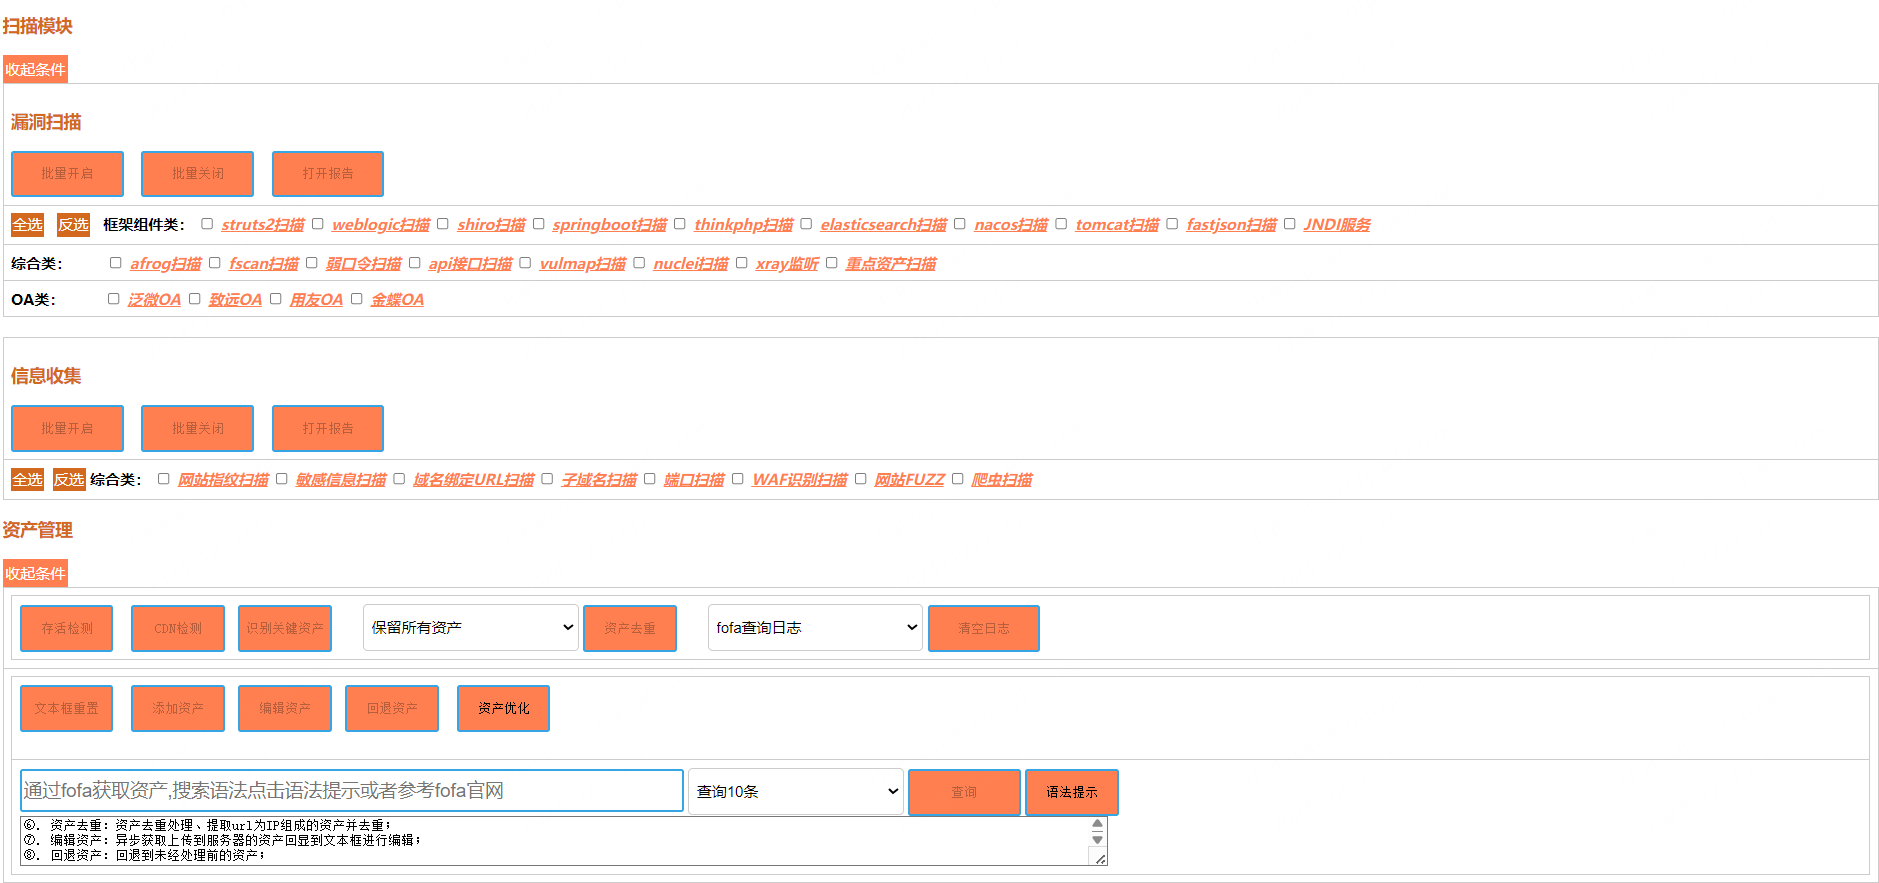
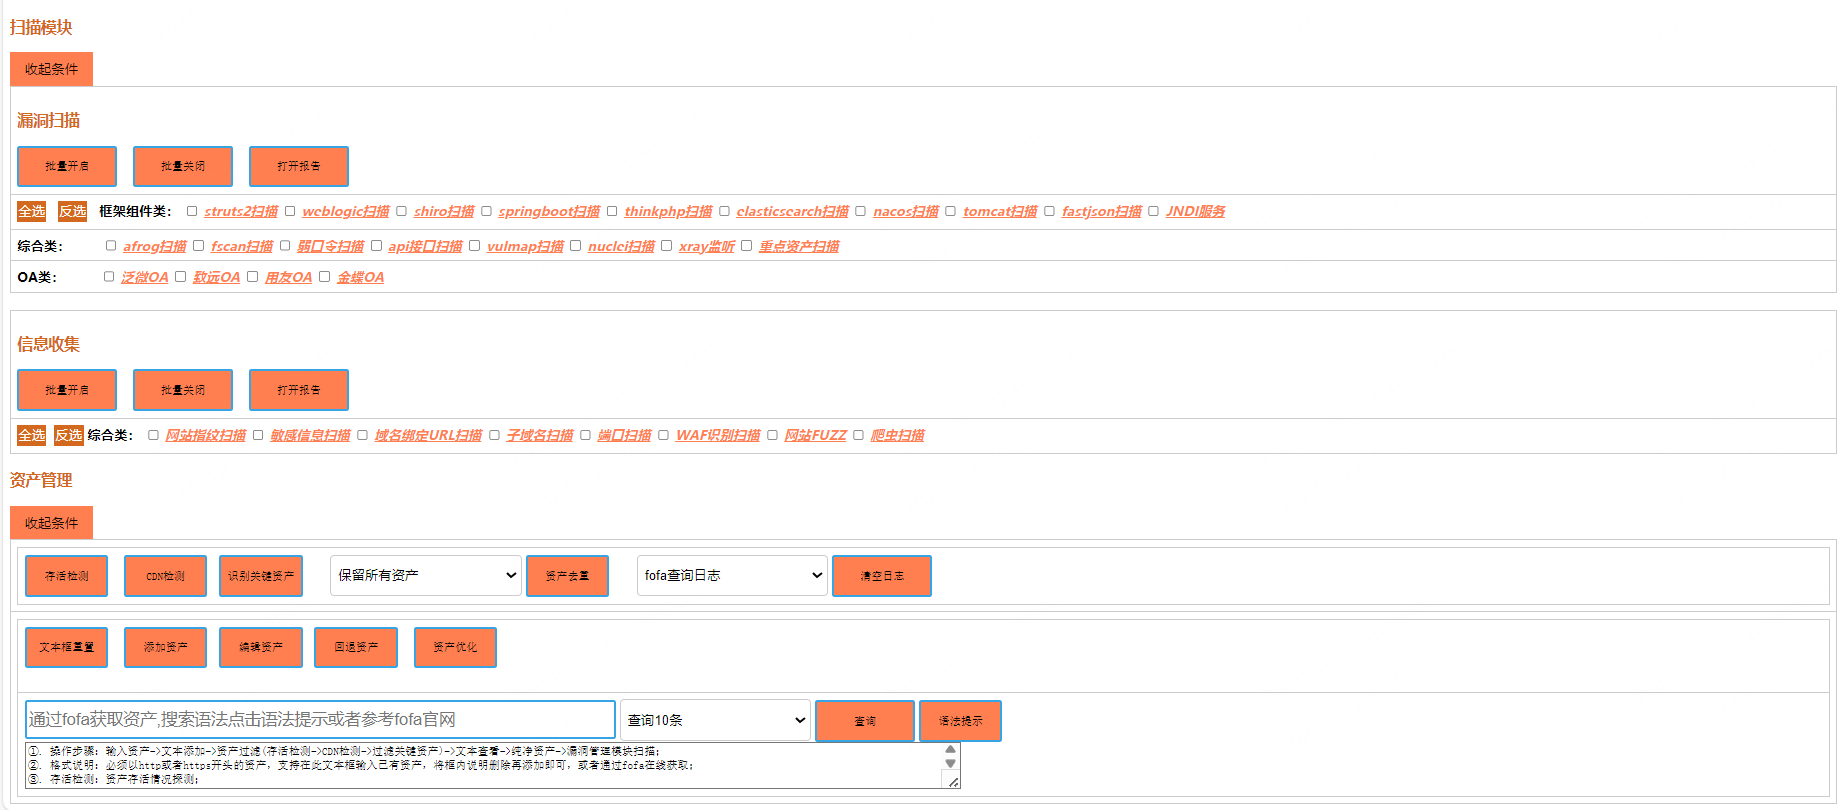
系统优化

Changed region(s): [[0.0, 0.4012, 1.0, 1.0], [0.0, 0.0, 0.7439, 0.3704], [0.9918, 0.0926, 1.0, 0.5864]]

diff --git a/templates/index.html b/templates/index.html
@@ -18,8 +18,7 @@
 	<span class="my-spanconfig11" onclick="jumpdirscanpage()">目录扫描</span>&nbsp;
 	<span class="my-spanconfig11" onclick="stopbutton()">按钮锁定</span>&nbsp;
 	<span class="my-spanconfig11" onclick="startbutton()">按钮解锁</span>&nbsp;
-	<span class="my-spanconfig11" onclick="ceyednsfunc()">dns日志</span>&nbsp;
-	<span class="my-spanconfig11" onclick="ceyehttpfunc()">http日志</span>&nbsp;
+	<span class="my-spanconfig11" onclick="dnslogfunc()">DNSQuery</span>&nbsp;
 	<span class="my-spanconfig11" onclick="reporttotalfunc()">报告整合</span>&nbsp;
 	<span class="my-spanconfig11" onclick="total_report_yulan_func()">报告预览</span>&nbsp;
 	<span class="my-spanconfig11" onclick="reportdownloadfunc()">报告下载</span>&nbsp;
@@ -31,62 +30,6 @@
 	<span onclick="startscanconfigpagefunc()" style="cursor: pointer;" class="my-spanconfig11">参数配置</span>&nbsp;
 	<span onclick="hydradictfunc()" style="cursor: pointer;" class="my-spanconfig11">字典配置</span>
 
-	<!-- <table border="1">
-		<tr>
-			<td> -->
-
-	<!-- <img src="{{ url_for('static', filename='image/shuaxin.png') }}" width="50" height="50"
-					style="cursor: pointer;" onclick="fanhui()" onmouseenter="caozuo1func()"
-					onmouseleave="caozuo11func()">&nbsp;&nbsp;
-				<img src="{{ url_for('static', filename='image/mainsuoding.png') }}" width="50" height="50"
-					style="cursor: pointer;" onclick="stopbutton()" onmouseenter="caozuo2func()"
-					onmouseleave="caozuo22func()">&nbsp;&nbsp;
-				<img src="{{ url_for('static', filename='image/mainjiesuo.png') }}" width="50" height="50"
-					style="cursor: pointer;" onclick="startbutton()" onmouseenter="caozuo3func()"
-					onmouseleave="caozuo33func()">&nbsp;&nbsp;
-				<img src="{{ url_for('static', filename='image/maindns.png') }}" width="50" height="50"
-					style="cursor: pointer;" onclick="ceyednsfunc()" onmouseenter="caozuo4func()"
-					onmouseleave="caozuo44func()">&nbsp;&nbsp;
-				<img src="{{ url_for('static', filename='image/mainhttp.png') }}" width="50" height="50"
-					style="cursor: pointer;" onclick="ceyehttpfunc()" onmouseenter="caozuo5func()"
-					onmouseleave="caozuo55func()">&nbsp;&nbsp;
-				<img src="{{ url_for('static', filename='image/reportzhenghe.png') }}" width="50" height="50"
-					style="cursor: pointer;" onclick="reporttotalfunc()" onmouseenter="caozuo6func()"
-					onmouseleave="caozuo66func()">&nbsp;&nbsp;
-				<img src="{{ url_for('static', filename='image/mainyulanexcel.png') }}" width="50" height="50"
-					style="cursor: pointer;" onclick="total_report_yulan_func()" onmouseenter="caozuo7func()"
-					onmouseleave="caozuo77func()">&nbsp;&nbsp;
-				<img src="{{ url_for('static', filename='image/maindownloadreport.png') }}" width="50" height="50"
-					style="cursor: pointer;" onclick="reportdownloadfunc()" onmouseenter="caozuo8func()"
-					onmouseleave="caozuo88func()">&nbsp;&nbsp;
-				<img src="{{ url_for('static', filename='image/mainsystemoper.png') }}" width="50" height="50"
-					style="cursor: pointer;" onclick="openModal()" onmouseenter="caozuo9func()"
-					onmouseleave="caozuo99func()">&nbsp;&nbsp;
-
-				<img src="{{ url_for('static', filename='image/restart.png') }}" width="50" height="50"
-					style="cursor: pointer;" onclick="restart_service_func()" onmouseenter="caozuo9bfunc()"
-					onmouseleave="caozuo99bfunc()">&nbsp;&nbsp;
-				<img src="{{ url_for('static', filename='image/stopservice.png') }}" width="50" height="50"
-					style="cursor: pointer;" onclick="signoutfunc()" onmouseenter="caozuo9afunc()"
-					onmouseleave="caozuo99afunc()"> -->
-
-	<!-- <br><br>
-				<span id="tishisp1" style="display: none; color: chocolate;">刷新系统按钮</span>
-				<span id="tishisp2" style="display: none; color: chocolate;">锁定按钮</span>
-				<span id="tishisp3" style="display: none; color: chocolate;">解锁按钮</span>
-				<span id="tishisp4" style="display: none; color: chocolate;">dnslog平台dns日志</span>
-				<span id="tishisp5" style="display: none; color: chocolate;">dnslog平台http日志</span>
-				<span id="tishisp6" style="display: none; color: chocolate;">报告整合</span>
-				<span id="tishisp7" style="display: none; color: chocolate;">报告预览</span>
-				<span id="tishisp8" style="display: none; color: chocolate;">报告下载</span>
-				<span id="tishisp9" style="display: none; color: chocolate;">系统管理</span>
-				<span id="tishisp9a" style="display: none; color: chocolate;">注销系统</span>
-				<span id="tishisp9b" style="display: none; color: chocolate;">系统软重启</span> -->
-
-
-	<!-- </td>
-		</tr>
-	</table> -->
 
 	<div id="modal" class="modal">
 
@@ -556,6 +499,29 @@
 
 		</div>
 	</div>
+
+	<!-- dns日志查询 -->
+	<div id="modal4" class="modal1">
+		<div class="modal-content1">
+			<span class="close" onclick="closeModal4()">&times;</span>
+			<h3>dnslog</h3>
+			<table id="data-table">
+				<thead>
+					<tr>
+						<th>ID</th>
+						<th>Name</th>
+						<th>Remote Address</th>
+						<th>Created At</th>
+					</tr>
+				</thead>
+				<tbody>
+					<!-- 数据将被填充在这里 -->
+				</tbody>
+			</table>
+
+		</div>
+	</div>
+
 
 	<!-- 删除日志确认页面 -->
 	<div id="modal3" class="modal3">

diff --git a/static/js/common.js b/static/js/common.js
@@ -370,17 +370,6 @@ function afrogreportfun() {
 }
 
 
-//ceye dns记录
-function ceyednsfunc() {
-    window.open("/ceye_dns_record/", "_blank");
-}
-
-//ceye http记录
-function ceyehttpfunc() {
-    window.open("/ceye_http_record/", "_blank");
-}
-
-
 //fscan扫描结果预览
 function fscanreprtfunc() {
     window.open("/fscanreportyulan/");
@@ -629,6 +618,61 @@ function closeModal1() {
     var modal1 = document.getElementById("modal1");
     modal1.style.display = "none";
 }
+
+// dns日志查询
+function dnslogfunc() {
+    var modal4 = document.getElementById("modal4");
+    modal4.style.display = "block";
+
+    $.ajax({
+        url: '/ceye_dns_record/',
+        method: 'GET',
+        success: function (info) {
+            const tableBody = document.querySelector('#data-table tbody');
+
+            info.resultdict.forEach(item => {
+                const row = document.createElement('tr'); // 创建新的行
+
+                // 创建单元格并填充数据
+                const idCell = document.createElement('td');
+                idCell.textContent = item.id;
+                row.appendChild(idCell);
+
+                const nameCell = document.createElement('td');
+                nameCell.textContent = item.name;
+                row.appendChild(nameCell);
+
+                const addrCell = document.createElement('td');
+                addrCell.textContent = item.remote_addr;
+                row.appendChild(addrCell);
+
+                const dateCell = document.createElement('td');
+                dateCell.textContent = item.created_at;
+                row.appendChild(dateCell);
+
+                tableBody.appendChild(row); // 将行添加到表格体中
+            });
+
+        },
+        error: function () {
+
+
+        },
+        complete: function () {
+
+        }
+    })
+
+}
+
+// 关闭dns日志
+function closeModal4() {
+    var modal4 = document.getElementById("modal4");
+    modal4.style.display = "none";
+}
+
+
+
 
 // 关闭系统管理
 function closesystemanager() {
@@ -925,7 +969,7 @@ function fofa_search_assets_func() {
             function (info) {
                 document.getElementById("routestatus1").innerHTML = info.fofa_status1;
                 document.getElementById("routestatus2").innerHTML = info.fofa_status2;
-               
+
             });
     }
     // 调用routestatus函数初始化显示

diff --git a/static/css/common.css b/static/css/common.css
@@ -397,12 +397,12 @@
 		.my-spanconfig11 {
 			display: inline-block;
 			/* 使span可以设置宽高 */
-			width: 70px;
-			height: 30px;
-			line-height: 30px;
+			width: 100px;
+			height: 40px;
+			line-height: 40px;
 			background-color:  coral;
 			/* 背景颜色设置为橙色 */
-			color: white;
+			color: rgba(8, 0, 0, 0.946);
 			/* 文本颜色设置为白色，以便在橙色背景上可见 */
 			text-align: center;
 			cursor: pointer;

diff --git a/scan_main_web.py b/scan_main_web.py
@@ -85,6 +85,9 @@ import threading
 from config import recheck_username
 from config import recheck_password
 
+
+import json
+
 app = Flask(__name__,template_folder='./templates') 
 app.secret_key = "DragonFire"
 bootstrap = Bootstrap(app)
@@ -1460,22 +1463,14 @@ def ceye_dns_record():
     user = session.get('username')
     if str(user) == main_username:
         result = os.popen('bash /TIP/info_scan/finger.sh ceye_dns'+' '+ceye_key).read()
-        return result
+        result_dict = json.loads(result)
+        message_json = {
+            "resultdict":result_dict['data']
+        }
+        return jsonify(message_json)
     else:
         return render_template('login.html')
 
-
-
-#ceye_http记录
-@app.route("/ceye_http_record/")
-def ceye_http_record():
-    user = session.get('username')
-    if str(user) == main_username:
-        result = os.popen('bash /TIP/info_scan/finger.sh ceye_http'+' '+ceye_key).read()
-        return result
-    else:
-        return render_template('login.html')
-    
 
 
 #关闭bbscan程序

diff --git a/readme.md b/readme.md
@@ -32,9 +32,10 @@ bilibili教程: https://www.bilibili.com/video/BV1Gt28YFEr3
 <h2>更新日志：</h2>
 <ul>
 <li>
-2024-11-18更新<br> 
+2024-11-21更新<br> 
 1. fofa资产发现进度查询；<br>
 2. 已知问题处理；<br>
+3. dnslog查询功能优化,通过弹窗异步显示到表格中；<br>
 </li>
 <li>
 2024-11-13更新<br> 
@@ -327,3 +328,5 @@ ES数据库漏洞扫描<br><br>
 <img src="https://raw.githubusercontent.com/huan-cdm/info_scan/main/images/yonsuitescan.png" />
 金蝶OA漏洞扫描<br><br>
 <img src="https://raw.githubusercontent.com/huan-cdm/info_scan/main/images/kingdeescan.png" />
+dnslog<br><br>
+<img src="https://raw.githubusercontent.com/huan-cdm/info_scan/main/images/ceyednslog.png" />
